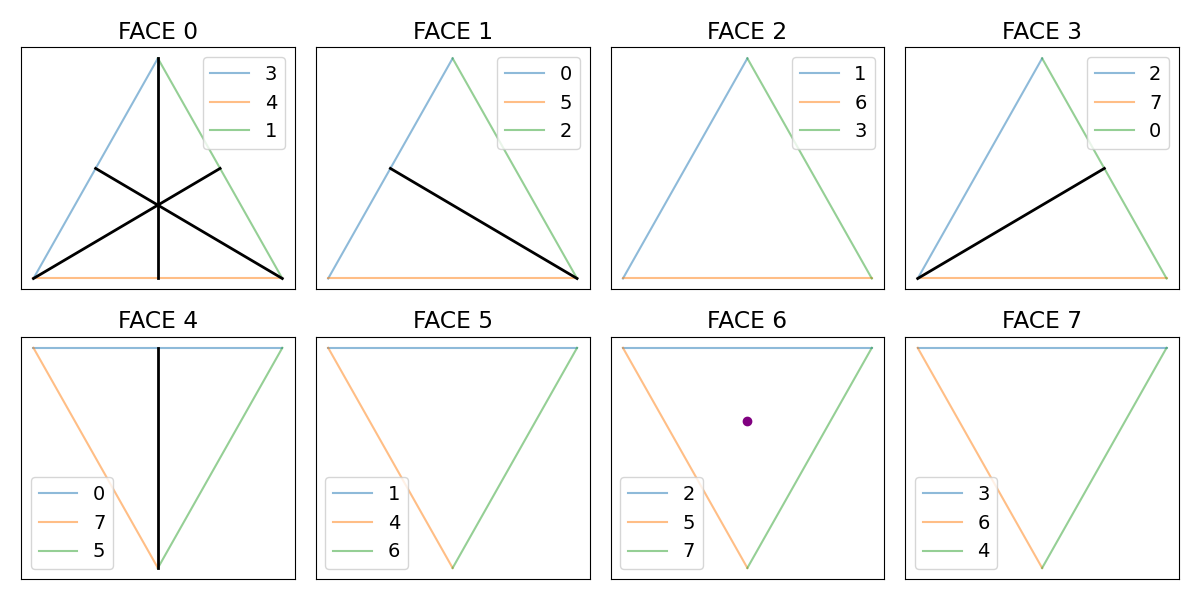
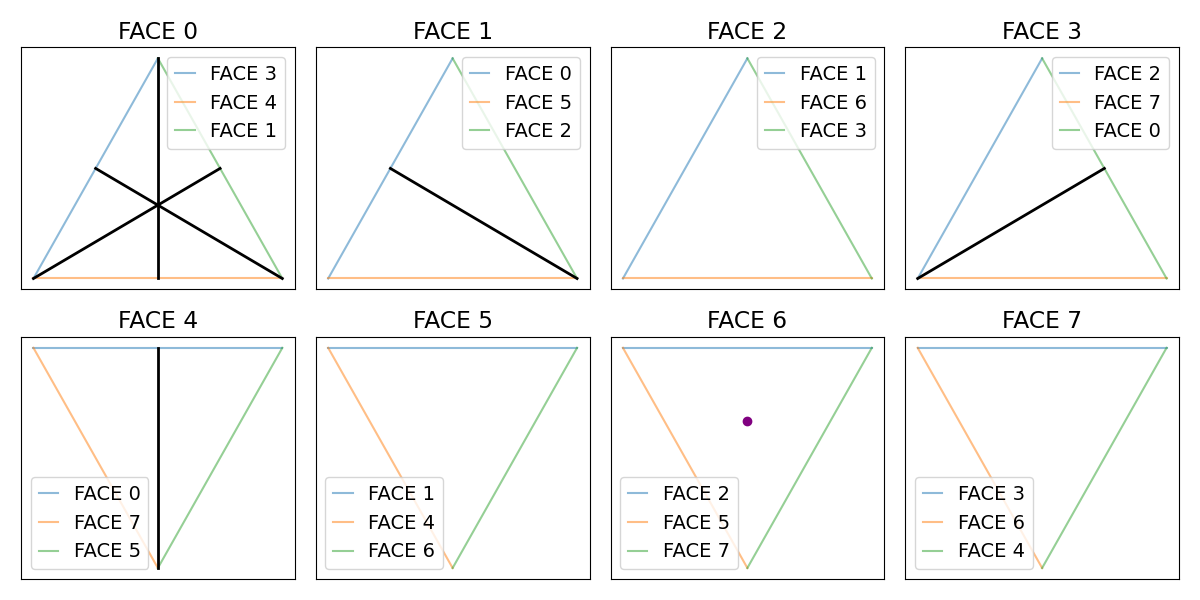
labeling better

diff --git a/cut_locus.py b/cut_locus.py
@@ -8,6 +8,8 @@ display_group.add_argument('--mark', action='append', nargs='*', required=False,
 
 display_group.add_argument("--handlelength", type=int, required=False, default=None,
                            help="length of lines shown in legend")
+display_group.add_argument("--explicit-edges", action='store_true', required=False,
+                           help="say 'face <face number>' on legend for edges")
 PARSER.add_argument("--ignore-points", action='store_true', required=False,
                     help="ignore single points on faces of cut loci, useful for fixing corner cases or repeat paths")
 
@@ -59,5 +61,8 @@ shape.interactive_vornoi_plot(diameter=args.diameter if args.diameter > 0 else N
                               font_size=args.font_size,
                               ignore_points_on_locus=args.ignore_points,
                               mark_points=marks,
-                              legend_kwargs={'handlelength': args.handlelength},  # TODO maybe make default 1
+                              legend_kwargs={
+                                  'handlelength': args.handlelength,
+                                  "face_name_to_label": lambda x: "FACE " + str(x) if args.explicit_edges else x
+                              },  # TODO maybe make default 1
                               )

diff --git a/src/polyhedra.py b/src/polyhedra.py
@@ -498,6 +498,10 @@ class ConvexPolyhderon(Shape):
         face_map, n, m = self.faces_to_plot_n_m()
         if legend_kwargs is None:
             legend_kwargs = dict()
+        if "face_name_to_label" in legend_kwargs:
+            face_name_to_label = legend_kwargs.pop("face_name_to_label")
+        else:
+            face_name_to_label = lambda x: x
 
         def ploot(i, j):
             if m > 1 and n > 1:
@@ -524,7 +528,7 @@ class ConvexPolyhderon(Shape):
                     for ((p1, p2), (bound, f)) in path:
                         (x, y) = tuple(p1.flatten())
                         (xp, yp) = tuple(p2.flatten())
-                        label = str(f.name)
+                        label = face_name_to_label(str(f.name))
                         if self.extra_legend[face.name]:
                             if bound.name not in self.seen_bounds:
                                 self.seen_bounds.append(bound.name)
